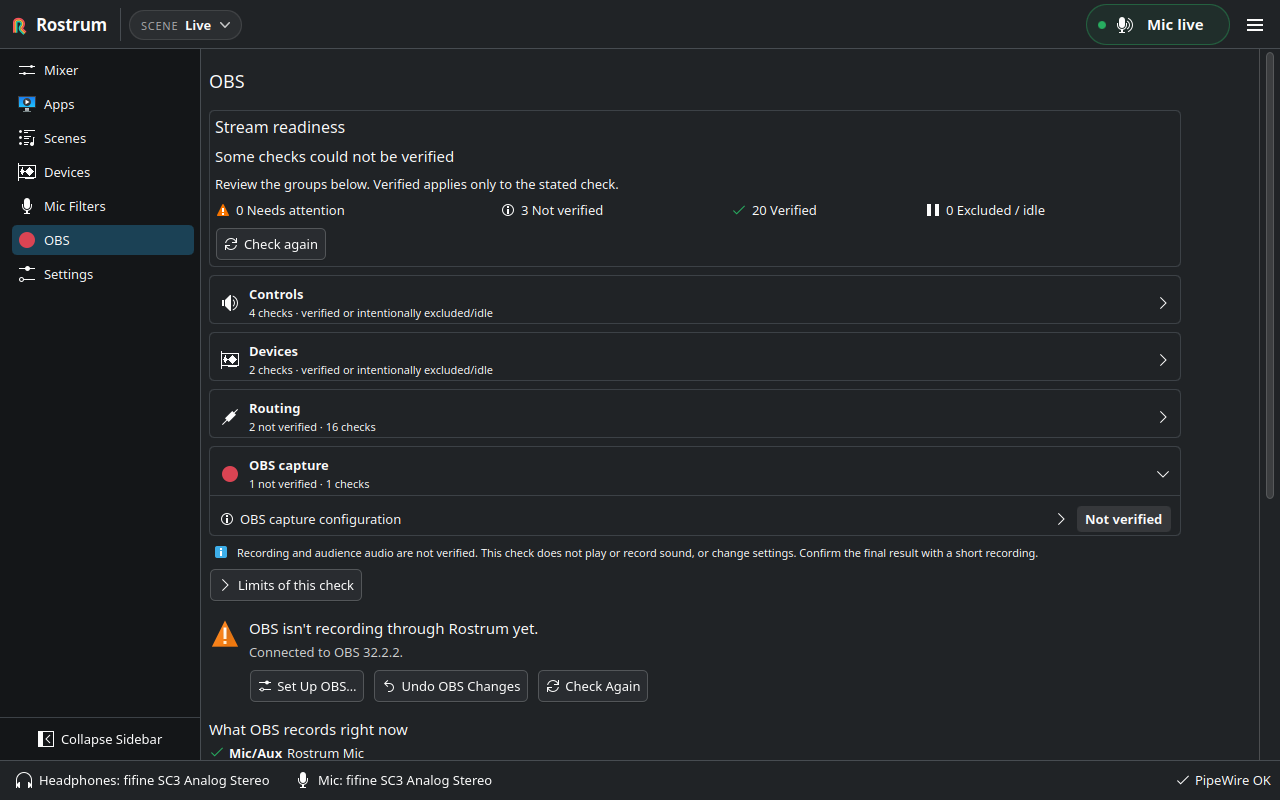
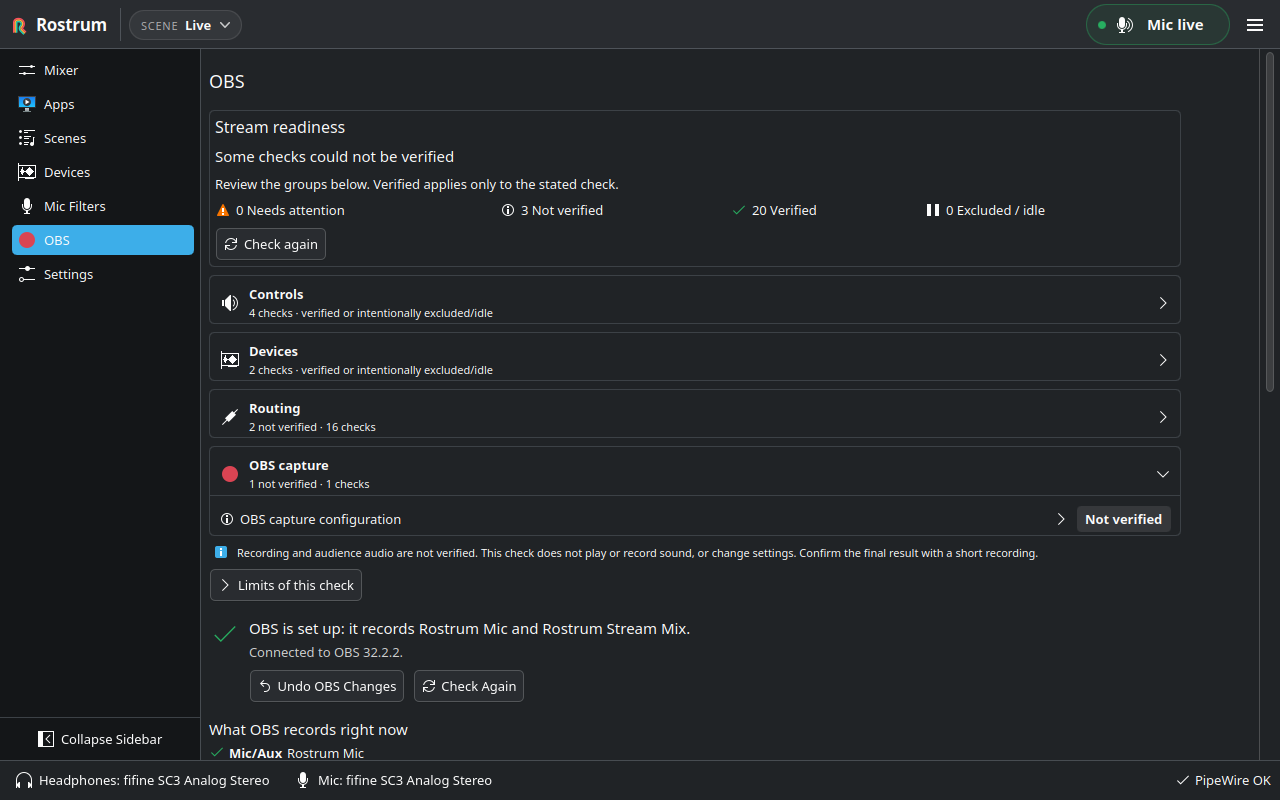
Capture OBS readiness with OBS running
Refresh the installed-app screenshot after reconnecting to OBS 32.2.2 and running the read-only readiness check. Keep recording and audience audio explicitly unverified.

diff --git a/index.html b/index.html
@@ -211,10 +211,10 @@
           <figure class="shot">
             <button class="zoom" type="button" popovertarget="view-obs">
               <span class="visually-hidden">Enlarge screenshot:</span>
-              <img src="images/obs.png?v=1b63bc9b" width="1280" height="800"
-                   alt="The installed Rostrum OBS page showing the read-only stream readiness results, with OBS capture marked Not verified while OBS is closed.">
+              <img src="images/obs.png?v=300708e9" width="1280" height="800"
+                   alt="The installed Rostrum OBS page connected to OBS 32.2.2, showing the read-only stream readiness results.">
             </button>
-            <figcaption>Readiness shows which checks passed and which could not be verified. OBS capture is not verified while OBS is closed.</figcaption>
+            <figcaption>Readiness shows which checks passed and which could not be verified. Recording and audience audio still need a short recording check.</figcaption>
           </figure>
           <figure class="shot">
             <button class="zoom" type="button" popovertarget="view-settings">
@@ -422,7 +422,7 @@ chmod +x Rostrum-0.1.0-x86_64.AppImage
     <div class="lightbox" id="view-obs" popover>
       <button type="button" popovertarget="view-obs" popovertargetaction="hide">
         <span class="visually-hidden">Close the enlarged screenshot</span>
-        <img src="images/obs.png?v=1b63bc9b" width="1280" height="800" alt="">
+        <img src="images/obs.png?v=300708e9" width="1280" height="800" alt="">
         <span class="lightbox-close" aria-hidden="true">✕</span>
       </button>
     </div>
